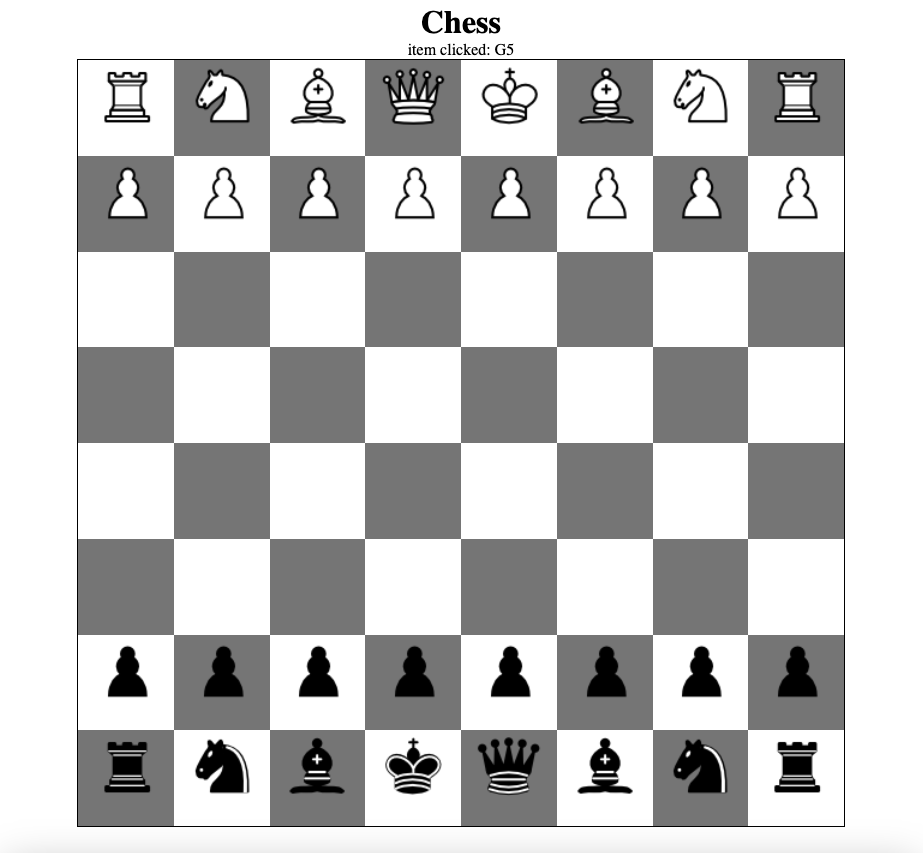
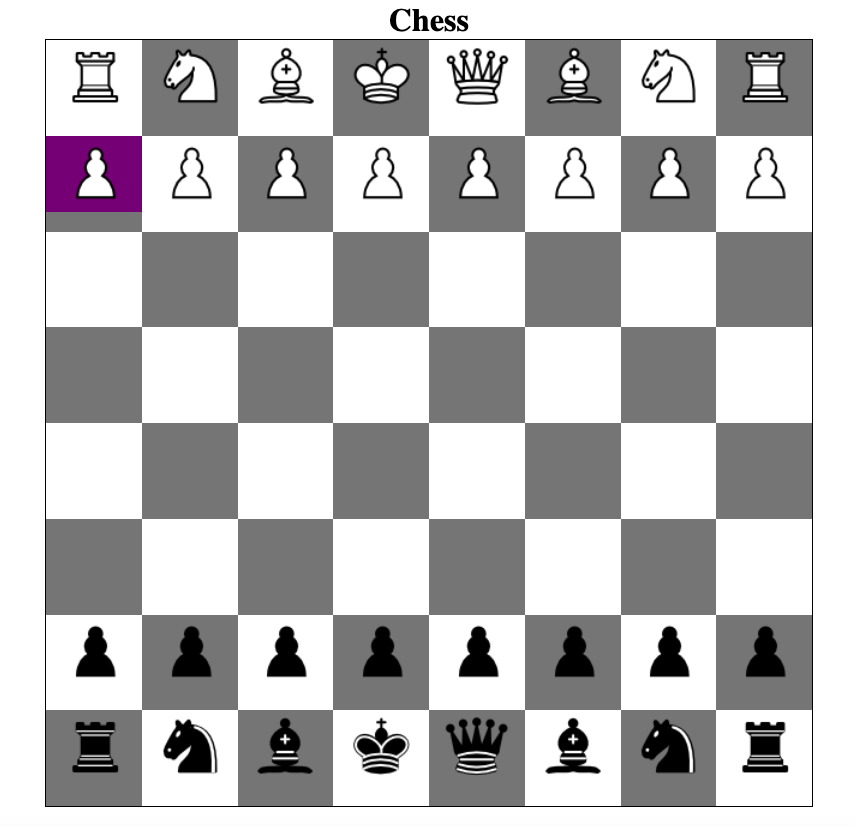
incorrect position on board for white queen/king

Changed region(s): [[0.0304, 0.0, 0.9731, 0.9976], [0.4257, 0.7557, 0.4561, 0.8162], [0.4865, 0.7255, 0.517, 0.7557]]

diff --git a/chess/src/app/board/board.component.ts b/chess/src/app/board/board.component.ts
@@ -20,8 +20,8 @@ export class BoardComponent {
     {id: 1, name: 'A8', color: 'White', isOccupied: true, piece: 'WhiteRook'},
     {id: 2, name: 'B8', color: 'Grey', isOccupied: true, piece: 'WhiteKnight'},
     {id: 3, name: 'C8', color: 'White', isOccupied: true, piece: 'WhiteBishop'},
-    {id: 4, name: 'D8', color: 'Grey', isOccupied: true, piece: 'WhiteQueen'},
-    {id: 5, name: 'E8', color: 'White', isOccupied: true, piece: 'WhiteKing'},
+    {id: 4, name: 'D8', color: 'Grey', isOccupied: true, piece: 'WhiteKing'},
+    {id: 5, name: 'E8', color: 'White', isOccupied: true, piece: 'WhiteQueen'},
     {id: 6, name: 'F8', color: 'Grey', isOccupied: true, piece: 'WhiteBishop'},
     {id: 7, name: 'G8', color: 'White', isOccupied: true, piece: 'WhiteKnight'},
     {id: 8, name: 'H8', color: 'Grey', isOccupied: true, piece: 'WhiteRook'},
